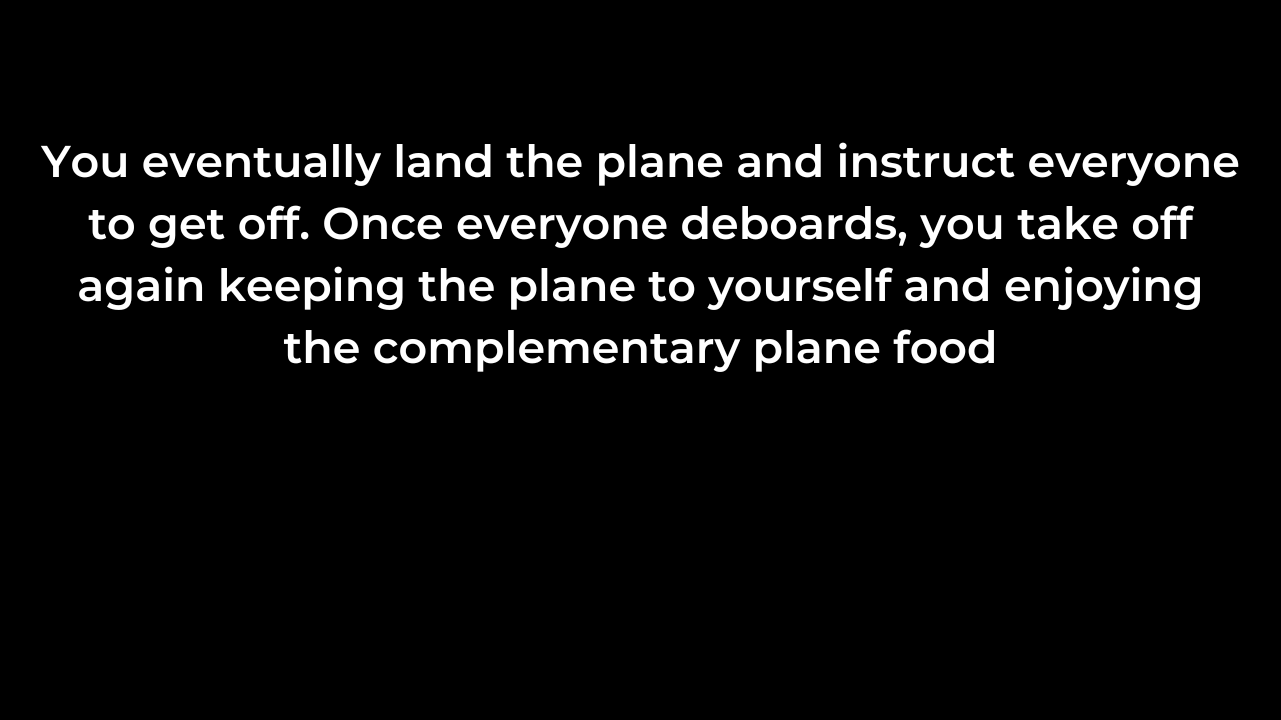
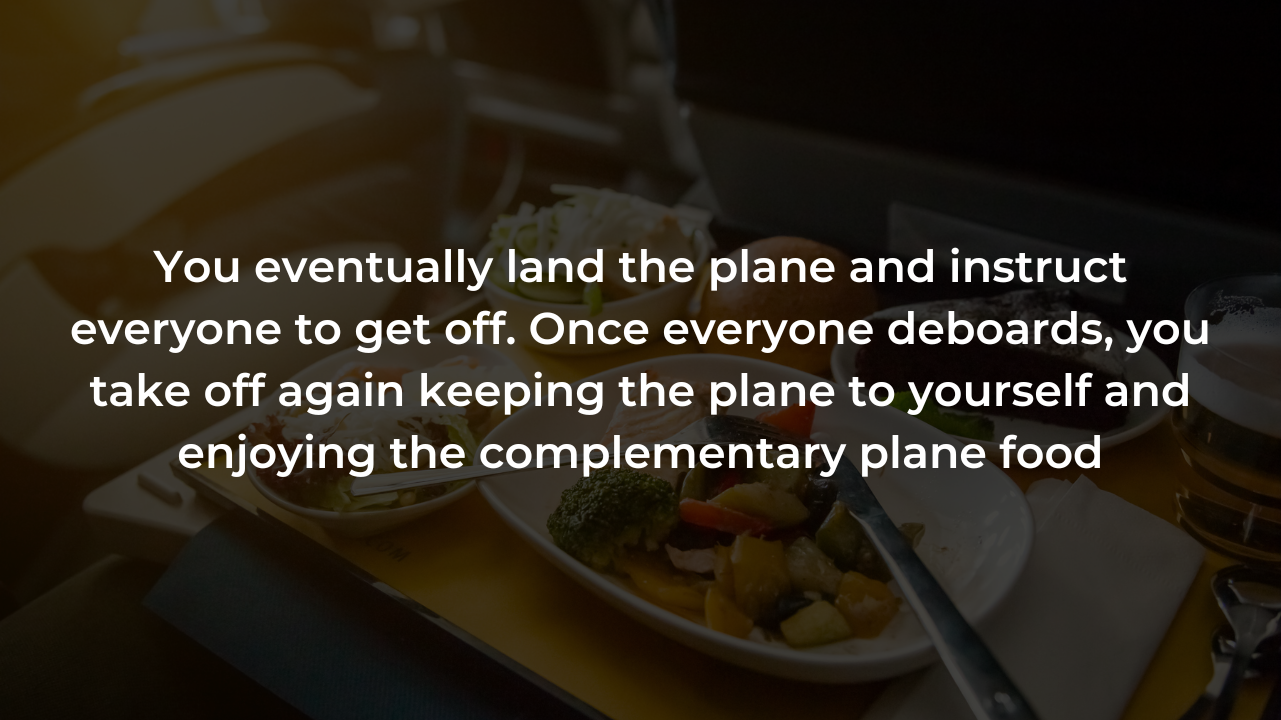
Bug fixes and visual improvements

diff --git a/midtermproject.java b/midtermproject.java
@@ -112,6 +112,7 @@ public class midtermproject{
 				}
 				if(intCondition==0){
 					scene14(con);
+					charKeypress='i';
 					charKeypress=con.getChar();
 					if(charKeypress=='j'){
 						slidetransition(con);
@@ -139,7 +140,7 @@ public class midtermproject{
 		con.repaint();
 		if(charKeypress==' '){
 			con.clear();
-			con.println("\n\n\n   As you approach the scanner, you start fiddling with the coins in your pocket.\nYou hesitantly place your luggage and briefcase on the belt and hope for the best. \n\n   The luggage disappears under the machine. You walk through the screener,\n          but it starts beeping. You get worried as you run through scenarios of\n                                                        what went wrong.\n\n                    But then you remember you still had coins in your pocket.\n       After depositing the change, you walk through the screener and are cleared.\n\n                                      Your luggage also passed the machine.\n\n                                                 You let out a sigh of relief.");
+			con.println("\n\n\n   As you approach the scanner, you start fiddling with the coins in your pocket.\nYou hesitantly place your luggage and briefcase on the belt and hope for the best. \n\n   The luggage disappears under the machine. You walk through the screener,\n          but it starts beeping. You get worried as you run through scenarios of\n                                                        what went wrong.\n\n                    But then you remember you still had coins in your pocket.\n       After depositing the change, you walk through the screener and are cleared.\n\n                                        Your luggage also passed the machine.\n\n                                                   You let out a sigh of relief.");
 			charKeypress='i';
 		}
 		charKeypress=con.getChar();
@@ -213,7 +214,6 @@ public class midtermproject{
 				}else{
 					con.clear();
 					con.println("\n\n\n\n\n\n\n\n\n\n\n\n\n                                                                                                          Incorrect");
-					con.println(dblCorrectMathAnswer);
 					con.sleep(1000);
 					con.clear();
 				}
@@ -253,7 +253,7 @@ public class midtermproject{
 	
 	public static void scene4(Console con){
 		int intCounterx;
-		int intCountery=480;
+		int intCountery=120;
 		char charKeypress;
 		con.clear();
 		con.setBackgroundColor(Color.BLACK);
@@ -263,20 +263,23 @@ public class midtermproject{
 		con.setDrawFont(montserrat);
 		con.setTextColor(Color.WHITE);
 		con.setDrawColor(Color.WHITE);
+		BufferedImage scene4 = con.loadImage("scene4.png");
 		BufferedImage airport = con.loadImage("airport.png");
 		BufferedImage plane = con.loadImage("plane.png");
 		BufferedImage note = con.loadImage("note.png");
-		con.println("\n\n\n\n\n\n\n\n    You board the plane, you felt a bit special this flight so you bought a first class\n              ticket, you sit in seat 1C and close your eyes to catch up on some sleep");
+		con.drawImage(scene4,0,0);
 		con.drawString("Press [space] to continue",490,650);
 		con.repaint();
 		charKeypress=con.getChar();
 		if(charKeypress==' '){
 			con.clear();
 			con.drawImage(airport,0,0);
-			for(intCounterx=-800;intCounterx<1280;intCounterx=intCounterx+4){
+			for(intCounterx=-800;intCounterx<1180;intCounterx=intCounterx+4){
 				con.drawImage(airport,0,0);
 				con.drawImage(plane,intCounterx,intCountery);
-				if(intCounterx%4==0){
+                if(intCounterx<-700){
+                    intCountery=120;  
+                }else if(intCounterx%8==0){
 					intCountery--;
 				}
 				con.repaint();
@@ -309,10 +312,9 @@ public class midtermproject{
 		con.repaint();
 		charKeypress = con.getChar();
 		if(charKeypress==' '){
-			con.drawImage(money,0,0);
+			con.drawImage(money,0,1);
 			con.clear();
-			con.setTextColor(Color.BLACK);
-			con.print("\n\n\n\n\n\n\n                                       I want: $ ");
+			con.print("\n\n\n\n\n\n\n                               I want: $ ");
 			con.repaint();
 			dblMoney=con.readDouble();
 		}
@@ -322,6 +324,7 @@ public class midtermproject{
 		con.clear();
 		char charKeypress;
 		BufferedImage scene6 = con.loadImage("scene6.png");
+		BufferedImage scene7 = con.loadImage("scene7.png");
 		BufferedImage bombscene = con.loadImage("bombscene.png");
 		Font montserrat = con.loadFont("Montserrat-SemiBold.ttf", 30); 
 		con.setTextFont(montserrat);
@@ -332,29 +335,28 @@ public class midtermproject{
 		con.repaint();
 		charKeypress = con.getChar();
 		if(charKeypress==' '){
-			con.setDrawColor(Color.BLACK);
-			con.fillRect(0,0,1280,720);
 			con.clear();
-			con.println("\n\n\n\n\n\n\n\n  The cabin crew do not believe you, you set the bomb off to explode in 2 minutes.\n    After the cabin crew talked amongst themselves for 1 minute and 45 seconds,\n                               they tell you to deactivate it and they'll let you in"); 
+			con.drawImage(scene7,0,0);
 			con.setDrawColor(Color.WHITE);
 			con.drawString("Press [space] to continue",490,650);
 			con.repaint();
 			charKeypress='i';
+			charKeypress = con.getChar();
+			if(charKeypress==' '){
+				montserrat = con.loadFont("Montserrat-SemiBold.ttf", 35);
+				con.setTextFont(montserrat);    
+				con.setDrawColor(Color.BLACK);
+				con.setTextColor(Color.BLACK);
+				con.fillRect(470,650,500,300);
+				con.clear();
+				con.drawImage(bombscene,0,0);
+				con.print("\n\n\n\n\n\n\n\n                                                              ");
 		}
-		charKeypress = con.getChar();
-		if(charKeypress==' '){
-			montserrat = con.loadFont("Montserrat-SemiBold.ttf", 35);
-			con.setTextFont(montserrat);    
-			con.setDrawColor(Color.BLACK);
-			con.setTextColor(Color.BLACK);
-			con.fillRect(470,650,500,300);
-			con.clear();
-			con.drawImage(bombscene,0,0);
-			con.print("\n\n\n\n\n\n\n\n                                                              ");
 	}
 }
 
 public static void scene8(Console con){
+	BufferedImage scene8 = con.loadImage("scene8.png");
 	BufferedImage background = con.loadImage("background.png");
 	BufferedImage annoucement = con.loadImage("annoucement.png");
 	char charKeypress;
@@ -362,7 +364,7 @@ public static void scene8(Console con){
 	con.clear();
 	con.drawImage(background,0,0);
 	con.setTextColor(Color.WHITE);
-	con.println("\n\n\n\n\n\n\n\n  After defusing the bomb, the cabin crew allows you into the cockpit");
+	con.drawImage(scene8,0,0);
 	Font montserrat=con.loadFont("Montserrat-SemiBold.ttf",20);
 	con.setDrawFont(montserrat);
 	con.setDrawColor(Color.WHITE);
@@ -371,10 +373,10 @@ public static void scene8(Console con){
 	charKeypress=con.getChar();
 	if(charKeypress==' '){
 		con.clear();
-		con.drawImage(annoucement,0,0);
+		con.drawImage(annoucement,0,1);
 		con.repaint();
-		con.setTextColor(Color.BLACK);
-		con.print("\n\n\n\n\n\n\n\n                              PA Annoucement: ");
+		con.setTextColor(Color.WHITE);
+		con.print("\n\n\n\n\n\n\n\n\n                              PA Annoucement: ");
 		strAnnoucement=con.readLine();
 	}
 }
@@ -407,6 +409,7 @@ public static void scene8(Console con){
 		con.drawImage(scene10,0,0);
 		con.setDrawFont(montserrat);
 		con.setDrawColor(Color.WHITE);
+		con.setTextColor(Color.BLACK);
 		con.drawString("Press [space] to continue",490,650);
 		con.repaint();
 		charKeypress=con.getChar();
@@ -419,7 +422,7 @@ public static void scene8(Console con){
 
 	public static void scene11(Console con){
 		char charKeypress;
-        int intCounterx,intCountery=300;
+        int intCounterx,intCountery=0;
 		Font montserrat=con.loadFont("Montserrat-SemiBold.ttf",20);
 		
 		BufferedImage scene11 = con.loadImage("scene11.png");
@@ -451,11 +454,7 @@ public static void scene8(Console con){
 				for(intCounterx=-800;intCounterx<1280;intCounterx=intCounterx+4){
 					con.drawImage(airport,0,0);
 					con.drawImage(plane,intCounterx,intCountery);
-					if(intCounterx>-200){
-						if(intCounterx%10==0||intCounterx%8==0){
-							intCountery--;
-							}
-					}else if(intCounterx%16==0){
+					if(intCounterx<-250){
 						intCountery++;
 					}
 					con.repaint();
@@ -464,6 +463,8 @@ public static void scene8(Console con){
 				slidetransition(con);
 				con.drawImage(scene11point2,0,0);
 				con.setDrawColor(Color.WHITE);
+                montserrat = con.loadFont("Montserrat-SemiBold.ttf", 20); 
+                con.setDrawFont(montserrat);
 				con.drawString("Press [space] to continue",490,650);
 				con.repaint();
 				charKeypress=con.getChar();
@@ -544,9 +545,10 @@ public static void scene8(Console con){
 			con.clear();
             con.drawImage(destination,0,0);
             con.repaint();
-            con.print("\n\n\n\n                                     ");
+            con.print("\n\n\n\n                                                  ");
             strDestination=con.readLine();
             con.drawImage(scene14point1,0,0);
+			con.clear();
             con.drawString("Press [space] to continue",490,650);
             con.repaint();
             charKeypress = con.getChar();
@@ -641,7 +643,7 @@ public static void scene8(Console con){
 
 	public static void slidetransition(Console con){
 		int intcounter;
-		con.setDrawColor(Color.BLACK);
+		con.setDrawColor(new Color(0,0,0));
 		con.clear();
 		for(intcounter=0;intcounter<1285;intcounter=intcounter+3){
 			con.fillRect(0,0,intcounter,720);

diff --git a/workingclass.java b/workingclass.java
@@ -6,18 +6,61 @@ import java.awt.Font;
 public class workingclass {
     public static void main (String[] args){
 		Console con = new Console("The Plane Hijack",1280,720);
-		BufferedImage sky = con.loadImage("sky.png");
-		BufferedImage explodingplane = con.loadImage("explodingplane.png");
-		int intCounterx;
-		int intCountery=-200;
-		for(intCounterx=-800;intCounterx<1280;intCounterx=intCounterx+4){
-			con.drawImage(sky,0,0);
-			con.drawImage(explodingplane,intCounterx,intCountery);
-			if(intCounterx%4==0){
-				intCountery++;
-			}
+		char charKeypress;
+        int intCounterx,intCountery=0;
+		Font montserrat=con.loadFont("Montserrat-SemiBold.ttf",20);
+		
+		BufferedImage scene11 = con.loadImage("scene11.png");
+        BufferedImage scene11point1 = con.loadImage("scene11point1.png");
+        BufferedImage airport = con.loadImage("airport.png");
+		BufferedImage plane = con.loadImage("plane.png");
+        BufferedImage scene11point2 = con.loadImage("scene11point2.png");
+
+		con.sleep(1000);
+		con.clear();
+		con.setDrawColor(Color.BLACK);
+		con.fillRect(0,0,1280,720);
+		con.drawImage(scene11,0,0);
+		con.setDrawFont(montserrat);
+		con.setDrawColor(Color.WHITE);
+		con.drawString("Press [space] to continue",490,650);
+		con.repaint();
+		charKeypress=con.getChar();
+		if(charKeypress==' '){
+			charKeypress='i';
+			con.drawImage(scene11point1,0,0);
+			con.drawString("Press [space] to continue",490,650);
 			con.repaint();
-			con.sleep(10);
+			charKeypress=con.getChar();
+			if(charKeypress==' '){
+				charKeypress='i';
+				con.clear();
+				con.drawImage(airport,0,0);
+				for(intCounterx=-800;intCounterx<1280;intCounterx=intCounterx+4){
+					con.drawImage(airport,0,0);
+					con.drawImage(plane,intCounterx,intCountery);
+					if(intCounterx<-250){
+						intCountery++;
+					}
+                    con.println(intCounterx);
+					con.repaint();
+					con.sleep(10);
+				}
+				slidetransition(con);
+				con.drawImage(scene11point2,0,0);
+				con.setDrawColor(Color.WHITE);
+                montserrat = con.loadFont("Montserrat-SemiBold.ttf", 20); 
+                con.setDrawFont(montserrat);
+				con.drawString("Press [space] to continue",490,650);
+				con.repaint();
+				charKeypress=con.getChar();
+				if(charKeypress==' '){
+					con.fillRect(0,0,1280,720);
+					con.setTextColor(Color.BLACK);
+					con.println("\n\n\n\n\n\n\n                                                      The end\n\n                                Ending 2/6 | Thank you for playing!");
+					con.repaint();
+				}
+			}
 		}
     }
 } 
